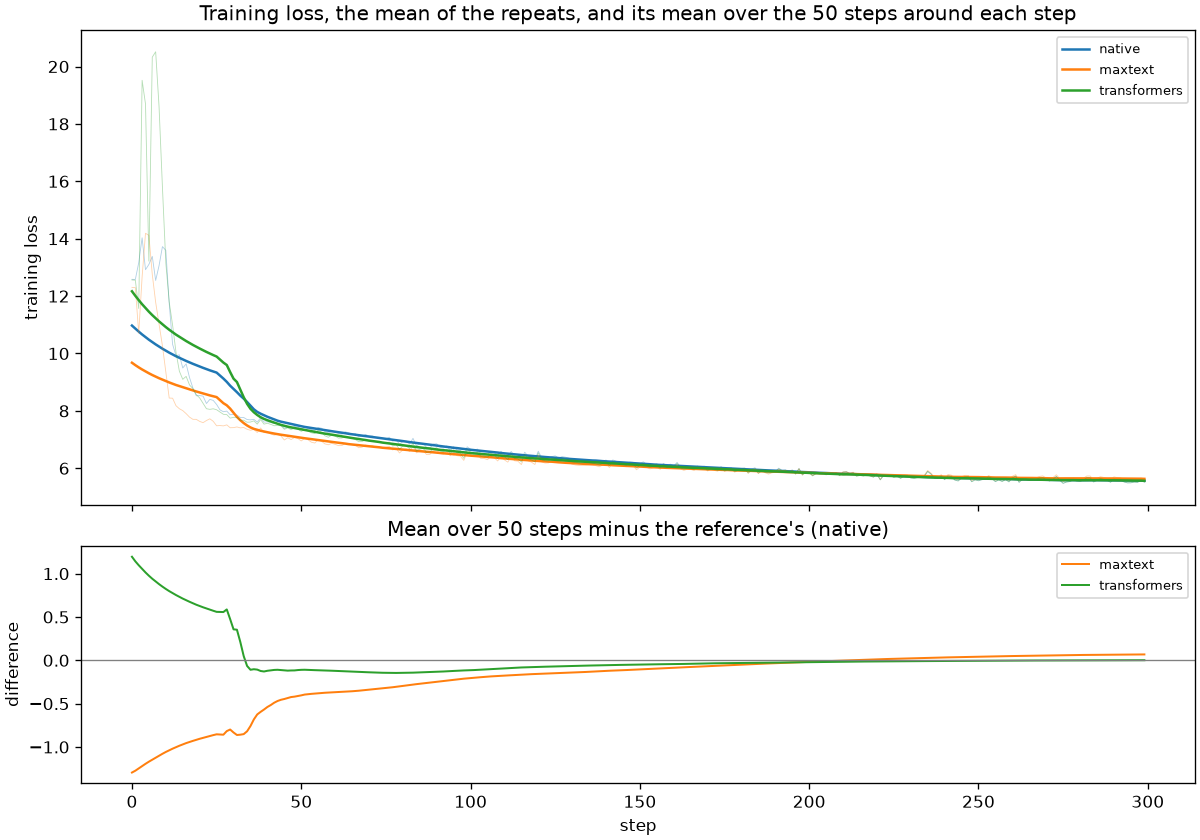
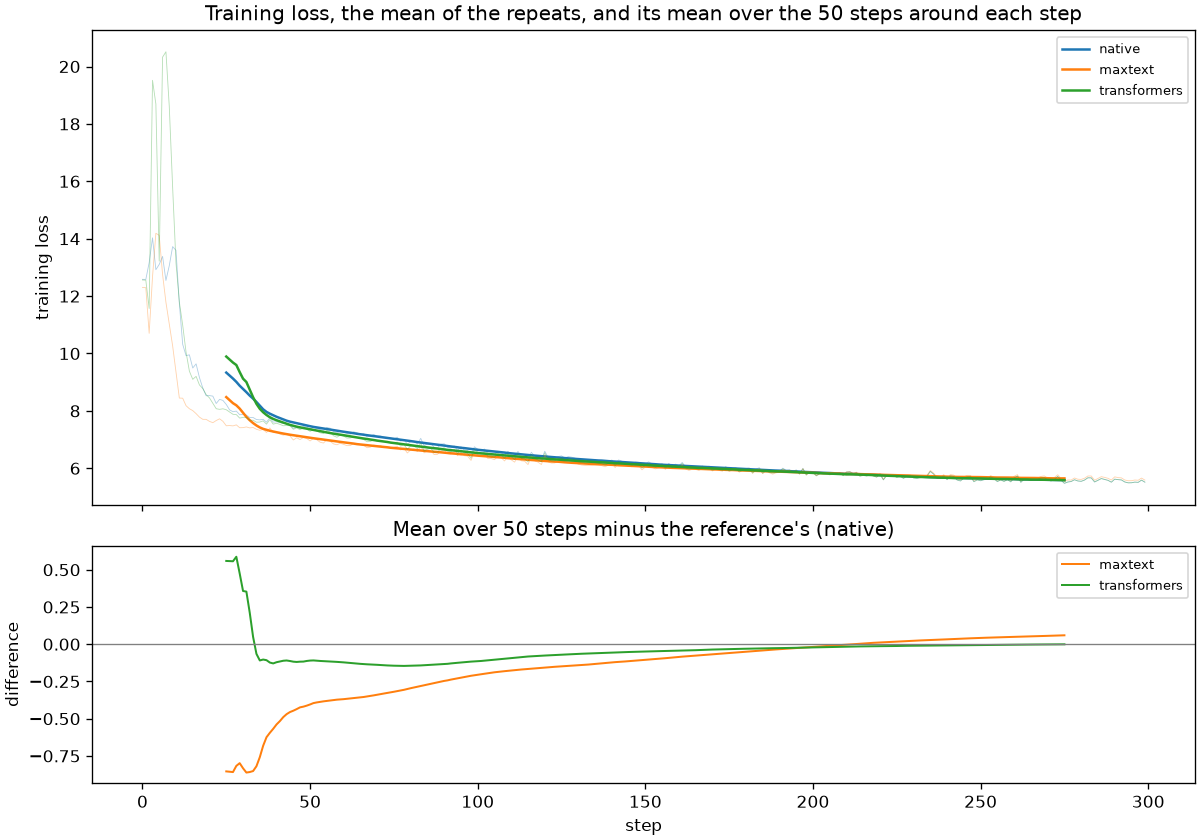
docs: the checkers' corrections (the override removes the RoPE base's difference, the initialization test's row, schnell's untested prediction and training, two old-initialization runs, what the FLUX.1 means still differ by) and the examples' figures drawn over full windows

diff --git a/docs/adapters/native_comparison.md b/docs/adapters/native_comparison.md
@@ -56,12 +56,13 @@ The unit tests are in `tests/test_flux.py`.
 | FSDP shards every parameter, and never along the block axis | Unit test | Real | Yes |
 | FSDP gives data parallelism's losses and validation loss | Unit test | Small | Within 1e-5 |
 | A resumed run repeats the uninterrupted one | Unit test | Small | Exactly |
+| Weights and biases uniform within 1/sqrt(fan-in) of zero, norm weights one | Unit test | Small | Within the bound, with a uniform draw's spread to 5% |
 | Prediction and loss equal diffusers' model from the same weights | [Experiment](#flux1-dev-from-the-same-weights-as-diffusers) | Real, fp32 | Loss within 1.6e-8, prediction within 7.7e-6 |
 | FSDP on 8 GPUs gives data parallelism's losses on one | [Experiment](#fsdp-against-data-parallelism-at-real-size) | Real, fp32 | Within 1.2e-7 over 10 steps |
 
-Not checked: FLUX.1-schnell at real size; the model against diffusers' in
-bf16, where their timestep embeddings differ; providers of `jax_titan.ops`
-other than `native`.
+Not checked: FLUX.1-schnell's prediction and training at real size; the model
+against diffusers' in bf16, where their timestep embeddings differ; providers
+of `jax_titan.ops` other than `native`.
 
 ### FLUX.1-dev from the same weights as diffusers
 
@@ -277,15 +278,16 @@ the same weights above cover those.
 
 - **JAX-Titan's FLUX.1 trains like diffusers'.** Their means part by 0.011
   over the first 50 steps, where their different random weights tell, by
-  0.0014 over the next 50, and by 2e-4 or less from step 150, about as much
-  as the repeats differ. Their validation losses are within 0.003, and within
-  6e-4 from step 150. Both end 0.02 above the floor.
+  0.0014 over the next 50, and by 2e-4 or less from step 150, still a few
+  times what the repeats differ: what is left of their different starts.
+  Their validation losses are within 0.003, and within 6e-4 from step 150.
+  Both end 0.02 above the floor.
 - **MaxDiffusion's FLUX.1 ends 0.50 above them**, and 0.46 in validation.
   It draws the weights of its blocks with flax's `lecun_normal`, variance
   1/fan-in, and zero biases, where diffusers' model and JAX-Titan's take
   PyTorch's default, a third of that variance with random biases; it also
   keeps the RoPE base and the bf16 timestep embedding of [Models](#models).
-  Initialized MaxDiffusion's way instead, one run of JAX-Titan's FLUX.1, made
+  Initialized MaxDiffusion's way instead, two runs of JAX-Titan's FLUX.1, made
   before its initialization became diffusers', stayed below MaxDiffusion's
   means of 50 steps by 0.0045 to 0.0091, and below its validation losses by
   0.048 after 50 steps and 0.012 after 300: the initialization makes nearly

diff --git a/docs/tools.md b/docs/tools.md
@@ -102,7 +102,7 @@ how to update the packages they install.
 | `observability.summarize RUN` | Step-time percentiles, MFU and HFU, startup and checkpoint costs; across runs, repeats and scaling. `--gate0 REFERENCE RUN` compares losses against a reference run |
 | `observability.profile TRACE_DIR` | Each GPU's compute, exposed collective, copy and idle shares from a `jax.profiler` trace |
 | `observability.plot RUN` | Figures of MFU, step time, loss, gradient norm and power over the run |
-| `observability.compare REFERENCE RUN ...` | One network in two implementations, such as JAX-Titan's own model and an adapter's, trained alike: the loss per window of steps and the validation loss against the reference's, with the variation between repeats for scale, and tokens/s per GPU; `--figure` draws the loss curves ([adapters/native_comparison.md](adapters/native_comparison.md)) |
+| `observability.compare REFERENCE RUN ...` | One network in two or more implementations, such as JAX-Titan's own model and an adapter's, trained alike: the loss per window of steps and the validation loss against the reference's, with the variation between repeats for scale, and tokens/s per GPU; `--figure` draws the loss curves ([adapters/native_comparison.md](adapters/native_comparison.md)) |
 | `observability.ettr RUN` | ETTR, and the checkpoint interval and ETTR projected to more nodes |
 | `observability.collectives DIR` | RCCL Inspector completion times by operation and message size |
 | `observability.gemms DUMP` | Every GEMM the compiled program runs, from an XLA HLO dump of any program: M, N, K, batch, dtypes, operand layouts, library (hipBLASLt, rocBLAS, Triton) and kernel configuration, with launches per run, or per training step with `--run_dir`. Standard library only: `python3 jax_titan/observability/gemms.py DUMP` runs without JAX or an install ([metrics.md](metrics.md#gemms-in-the-compiled-program)) |

diff --git a/docs/metrics.md b/docs/metrics.md
@@ -67,7 +67,7 @@ python3 jax_titan/observability/gemms.py runs/a.hlo --run_dir runs/a --merge [--
 # plots extra (matplotlib); the trainer draws <run_dir>/figures/ itself when it is there.
 python -m jax_titan.observability.plot runs/a runs/b --out figures
 
-# One network in two implementations trained alike, the reference first: the loss per
+# One network in two or more implementations trained alike, the reference first: the loss per
 # window of steps, the validation loss and tokens/s per GPU; repeats of a configuration
 # are grouped (docs/adapters/native_comparison.md).
 python -m jax_titan.observability.compare runs/native_r1 runs/native_r2 runs/adapter_r1 \

diff --git a/docs/adapters/maxdiffusion.md b/docs/adapters/maxdiffusion.md
@@ -150,7 +150,7 @@ validation loss after them.
 JAX-Titan's native FLUX.1 (`--model=flux-dev` and `flux-schnell`) is written
 after diffusers' FLUX.1, from which this adapter's FLUX.1 differs in two places
 ([Known issues](#known-issues)), so the two are not compared from the same
-weights; `--model_overrides='{"theta": 10000}'` removes the first. Trained
+weights; `--model_overrides='{"theta": 10000}'` removes the RoPE base's. Trained
 alike from random weights, with the same arguments `$ARGS` for both, they are
 compared as in the example of
 [native_comparison.md](native_comparison.md#example-flux1-dev), where this

diff --git a/docs/adapters/maxtext.md b/docs/adapters/maxtext.md
@@ -285,7 +285,7 @@ within 8e-8.
 
 This section compares JAX-Titan's native Llama (`--model=llama3.1-8b`) with
 the adapter's Llama (`--model=maxtext:llama3.1-8b`): from the same weights the
-two give the same loss and the same gradients. The adapter is the reference.
+two give the same loss and the same gradients, the adapter's being the reference.
 
 MaxText's Llama and JAX-Titan's are two implementations of one model.
 `llama_config` gives a MaxText Llama's sizes as a config of JAX-Titan's model,
